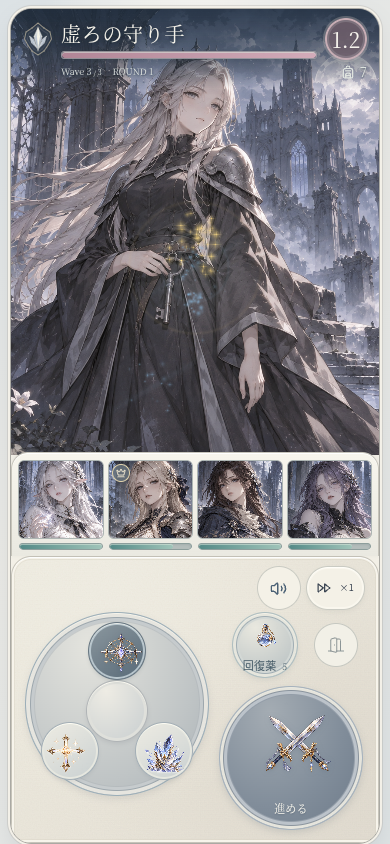
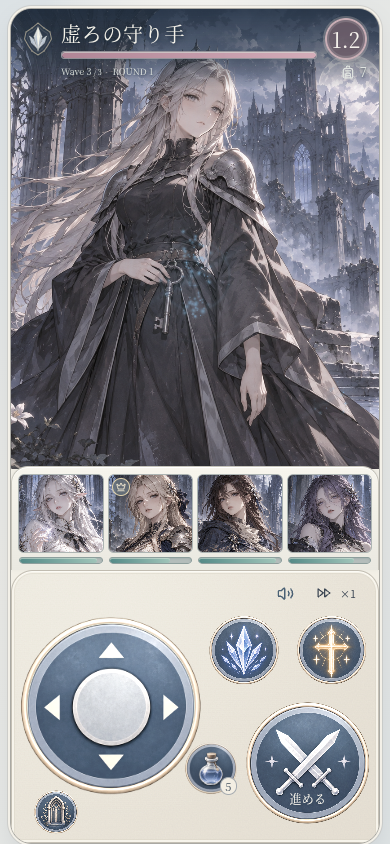
feat: match reference with generated framed controls and menu crests

diff --git a/src/ui/battle.css b/src/ui/battle.css
@@ -62,29 +62,6 @@
 .battle-layout .party-strip .hp-bar > span { background: linear-gradient(90deg,#548a87,#a0c4b9); }
 .battle-layout .party-hp { display: none; }
 .battle-layout .party-strip--selecting .character-portrait.button:not(:disabled) { box-shadow: 0 0 0 2px #9bbab2,0 0 15px #c1d9d3; }
-.battle-layout .command-pad { position: relative; display: grid; grid-template-columns: minmax(0,1fr) 196px; column-gap: 12px; row-gap: 3px; align-items: center; padding: 17px 19px 15px; margin: 0; border: 1px solid #c6c3b9; border-radius: 20px 20px 0 0; background: var(--paper-grain,none),radial-gradient(ellipse at 28% 8%,#faf7ee66,transparent 63%),radial-gradient(ellipse at 83% 72%,#bdb4a326,transparent 57%),linear-gradient(135deg,#f1eee3,#e7e2d7); box-shadow: inset 0 1px 0 #ffffff,inset 0 0 0 2px #f7f4eb,inset 0 0 0 3px #d7d1c466; }
-.battle-layout .command-heading { grid-column: 1 / -1; grid-row: 1; margin: 0; min-height: 44px; gap: 6px; justify-content: flex-end; }
-.battle-layout .command-heading > .eyebrow { min-width: 0; flex: 1; font-size: 9px; letter-spacing: .04em; color: #727d82; }
-.battle-layout .command-heading .toolbar { flex-shrink: 0; gap: 5px; }
-.battle-layout .command-heading .button { padding: 6px 10px; min-height: 44px; border-radius: 50px; background: #f4f1e7; font-size: 9px; border-color: #cacbc3; }
-/* A large tactile strategy selector replaces a decorative movement pad. */
-.battle-layout .strategy-options { grid-column: 1; grid-row: 2; width: min(100%,248px); aspect-ratio: 1; justify-self: center; align-self: start; display: flex; flex-direction: column; align-items: stretch; justify-content: center; gap: 6px; margin: 0; padding: 29px 25px; border: 1px solid #9caeb8; border-radius: 50%; background: radial-gradient(ellipse at 35% 18%,#e4e4de,#bfc4c5 65%,#a8b0b5); box-shadow: inset 0 1px 0 #f6f4eb,inset 0 0 0 4px #e6e5df,inset 0 0 0 5px #9da7ad,inset 0 0 0 8px #c6cbcd,inset 0 0 0 9px #adb3b780,0 3px 8px #414b5420; }
-.battle-layout .strategy-options .button { flex: 0 0 auto; min-height: 52px; padding: 7px 12px; display: flex; flex-direction: row; align-items: center; justify-content: flex-start; gap: 10px; border: 1px solid #b8c3ca78; border-radius: 28px; background: linear-gradient(135deg,#e8e8e3b8,#d1d5d44a); color: #465661; box-shadow: inset 0 1px 0 #f3f2e9b0,0 1px 2px #526a7b0d; }
-.battle-layout .strategy-options .button:not(.is-selected):hover:not(:disabled) { border-color: #8da5b6; background: #f1f6f3c9; box-shadow: inset 0 1px 0 #ffffff,0 1px 3px #526a7b1c; }
-.battle-layout .strategy-options .button.is-selected { background: linear-gradient(150deg,#89959c,#667580); color: #ffffff; border-color: #7b8a94; box-shadow: inset 0 1px 0 #dce0dd99,inset 0 0 0 1px #c1c9cd70,0 1px 3px #3a4d5c21; }
-.battle-layout .strategy-options .button > .command-emblem { box-sizing: border-box; width: 26px; height: 26px; padding: 0; stroke-width: 1.5; border: 0; background: transparent; box-shadow: none; filter: drop-shadow(0 1px 0 #ffffff60); }
-.battle-layout .strategy-options .button.is-selected > .command-emblem { filter: drop-shadow(0 1px 2px #3d526551); }
-.battle-layout .strategy-options .button > span:not(.command-emblem) { display: block; font-family: var(--font-display); font-size: 13px; line-height: 1.4; white-space: nowrap; }
-.battle-layout .strategy-options .button small { display: none; }
-.battle-layout .command-actions { grid-column: 2; grid-row: 2; display: grid; width: 100%; grid-template-columns: 1fr auto; align-items: center; justify-items: center; gap: 10px 8px; }
-.battle-layout .command-actions .battle-item-control { grid-column: 1; grid-row: 1; width: 86px; height: 86px; min-height: 86px; padding: 10px; border-radius: 50%; display: flex; flex-direction: column; gap: 4px; border: 1px solid #aebec0; background: radial-gradient(circle at 35% 23%,#e9e8df,#c5cbca 65%,#acb7bc); box-shadow: inset 0 1px 0 #f4f2e8,inset 0 0 0 3px #e6e6dd,inset 0 0 0 4px #a1aeb4,inset 0 0 0 6px #d3d8d5,0 3px 6px #41556218; color: #465b67; }
-.battle-layout .battle-item-control > .command-emblem { width: 48px; height: 48px; flex-shrink: 0; }
-.battle-layout .battle-item-control > span:not(.command-emblem) { font-size: 11px; line-height: 1.2; }
-.battle-layout .battle-item-control small { margin-left: 3px; font-family: var(--font-display); }
-.battle-layout .command-actions .battle-advance-control { grid-column: 1 / -1; grid-row: 2; width: 188px; height: 188px; min-height: 188px; padding: 23px 14px; border-radius: 50%; display: flex; flex-direction: column; gap: 10px; border: 1px solid #a6b2bd; background: radial-gradient(ellipse at 35% 18%,#a4acb3,#818d9a 57%,#6c7988); color: #f7f5ed; box-shadow: inset 0 1px 0 #e9e8df,inset 0 0 0 3px #e5e4dc,inset 0 0 0 4px #8a949e,inset 0 0 0 7px #bcc3ca,inset 0 0 0 8px #939da8,0 3px 8px #3a4e5f28; text-shadow: 0 1px 2px #3f4d5970; }
-.battle-layout .battle-advance-control > .command-emblem { width: 112px; height: 112px; filter: drop-shadow(0 1px 3px #31475e2b); }
-.battle-layout .battle-advance-control > span:not(.command-emblem) { max-width: 110px; font-family: var(--font-display); font-size: 13px; line-height: 1.4; text-align: center; }
-.battle-layout .command-actions .battle-retreat-control { grid-column: 2; grid-row: 1; width: 44px; height: 44px; min-height: 44px; padding: 9px; border-radius: 50%; border: 1px solid #c6c8c1; background: #f2f0e7; color: #8a9394; }
 @media (max-width: 760px) {
   .battle-layout .battle-toast { top: 96px; }
   .battle-layout { max-width: 500px; border-radius: 22px; }
@@ -99,33 +76,11 @@
   .battle-layout .enemy-line--1 .enemy-art { height: calc(100% + 65px); padding: 0; }
   .battle-layout .party-strip { padding: 7px 6px 6px; gap: 4px; }
   .battle-layout .party-strip .portrait-image { aspect-ratio: 1.08; }
-  .battle-layout .command-pad { grid-template-columns: minmax(0,1fr) 148px; column-gap: 8px; row-gap: 2px; padding: 9px 13px 12px; }
-  .battle-layout .command-heading { margin: 0; }
-  .battle-layout .command-heading > .eyebrow { font-size: 8px; }
-  .battle-layout .strategy-options { width: 100%; max-width: 204px; padding: 23px 17px; gap: 4px; }
-  .battle-layout .strategy-options .button { min-height: 44px; padding: 5px 8px; border-radius: 25px; gap: 6px; }
-  .battle-layout .strategy-options .button > .command-emblem { width: 22px; height: 22px; padding: 0; }
-  .battle-layout .strategy-options .button > span:not(.command-emblem) { font-size: 11px; }
-  .battle-layout .command-actions { grid-template-columns: 82px 44px; justify-content: center; gap: 8px; }
-  .battle-layout .command-actions .battle-item-control { width: 66px; height: 66px; min-height: 66px; padding: 4px; gap: 2px; }
-  .battle-layout .command-actions .battle-advance-control { width: 144px; height: 144px; min-height: 144px; padding: 12px 10px; gap: 6px; }
-  .battle-layout .battle-advance-control > .command-emblem { width: 96px; height: 96px; }
-  .battle-layout .battle-item-control > .command-emblem { width: 40px; height: 40px; }
-  .battle-layout .battle-advance-control > span:not(.command-emblem) { max-width: 92px; font-size: 11px; }
 
 }
 @media (max-width: 360px) {
   .battle-layout .battle-scene { height: 350px; }
-  .battle-layout .command-pad { grid-template-columns: minmax(0,1fr) 120px; column-gap: 6px; padding-inline: 12px; }
-  .battle-layout .strategy-options { padding: 10px 8px; gap: 2px; }
-  .battle-layout .strategy-options .button { min-height: 44px; padding-inline: 6px; gap: 4px; }
-  .battle-layout .strategy-options .button > .command-emblem { width: 19px; height: 19px; }
-  .battle-layout .strategy-options .button > span:not(.command-emblem) { font-size: 10px; }
-  .battle-layout .command-actions { grid-template-columns: 64px 44px; gap: 6px; }
-  .battle-layout .command-actions .battle-advance-control { width: 116px; height: 116px; min-height: 116px; }
-  .battle-layout .battle-advance-control > .command-emblem { width: 70px; height: 70px; }
-  .battle-layout .battle-item-control > .command-emblem { width: 32px; height: 32px; }
-  .battle-layout .command-actions .battle-item-control { width: 62px; height: 62px; min-height: 62px; }
+
 }
 
 @media (max-width: 760px) and (max-height: 740px) {

diff --git a/src/screens/GameViews.tsx b/src/screens/GameViews.tsx
@@ -1,6 +1,6 @@
 import { useState } from 'react';
-import { ArrowRight, Backpack, BookOpen, ChevronRight, CircleHelp, Compass, Crown, Heart, Hexagon, Moon, Plus, Shield, Sparkles, Swords, Users, Volume2, VolumeX, WandSparkles, FlaskConical, Check, DoorOpen, FastForward, Play, Package, Settings, Feather } from 'lucide-react';
-import { Button, Panel, CharacterPortrait, MaterialIcon, HPBar, Modal, MenuEmblem, EnemyCarousel, SceneEffects, TownNavigation, CommandEmblem, StrategyDial, PortraitArt, CurrencyEmblem } from '../ui';
+import { ArrowRight, Backpack, BookOpen, ChevronRight, CircleHelp, Compass, Crown, Heart, Hexagon, Moon, Plus, Shield, Sparkles, Swords, Users, Volume2, VolumeX, WandSparkles, FlaskConical, Check, FastForward, Play, Package, Settings, Feather } from 'lucide-react';
+import { Button, Panel, CharacterPortrait, MaterialIcon, HPBar, Modal, MenuEmblem, EnemyCarousel, SceneEffects, TownNavigation, BattleControlPad, PortraitArt, CurrencyEmblem } from '../ui';
 import { content, assetPath, characterById, materialName, roleName } from '../content';
 import { characterStats, dungeonDifficulty, leaderBonus, recruitCost } from '../domain/engine';
 import type { Battle, CharacterDef, GameCommand, GameSave, Rarity, Unit } from '../domain/types';
@@ -120,15 +120,11 @@ export function BattleView(p: ViewProps) {
         <span className="party-hp">{unit.hp} / {unit.maxHp}</span>
       </div>)}
     </div>
-    <Panel className="command-pad">
-      <div className="command-heading">{usingPotion && <span className="sr-only">回復する仲間を選択</span>}<div className="toolbar">{usingPotion && <Button size="sm" variant="secondary" onClick={() => setUsingPotion(false)}>取消</Button>}<Button variant="icon" title={p.save.settings.seVolume === 0 ? '効果音を有効にする' : '効果音をミュート'} disabled={p.busy} onClick={() => p.command({ type: 'settings', settings: { seVolume: p.save.settings.seVolume === 0 ? 0.5 : 0 } })}>{p.save.settings.seVolume === 0 ? <VolumeX size={17} /> : <Volume2 size={17} />}</Button><Button size="sm" variant="secondary" disabled={p.busy} title="演出速度" onClick={() => p.command({ type: 'settings', settings: { speed: p.save.settings.speed === 1 ? 2 : 1 } })}><FastForward size={14} /> ×{p.save.settings.speed}</Button></div></div>
-      <StrategyDial value={battle.strategy} disabled={p.busy || battle.phase !== 'ready'} onChange={strategy => { void p.command({ type: 'strategy', strategy }); }} />
-      <div className="command-actions">
-        <Button variant="secondary" className="battle-item-control" disabled={p.busy || battle.phase !== 'ready' || battle.potionUsed || !battle.potionsRemaining} onClick={() => setUsingPotion(!usingPotion)}><CommandEmblem kind="potion" /><span>回復薬 <small>{battle.potionsRemaining}</small></span></Button>
-        {battle.phase === 'playing' ? <Button size="lg" className="battle-advance-control" disabled={p.busy} onClick={() => p.command({ type: 'replay' })} aria-label="次の演出へ"><CommandEmblem kind="replay" /><span>次へ</span></Button> : <Button size="lg" className="battle-advance-control" disabled={p.busy || usingPotion} onClick={() => p.command({ type: 'round' })} aria-label="ラウンドを進める"><CommandEmblem kind="advance" /><span>進める</span></Button>}
-        <Button variant="icon" className="battle-retreat-control" title="撤退" disabled={p.busy || battle.phase !== 'ready'} onClick={() => setRetreat(true)}><DoorOpen size={20} strokeWidth={1.3} /></Button>
-      </div>
-    </Panel>
+    <BattleControlPad strategy={battle.strategy} strategyDisabled={p.busy || battle.phase !== 'ready'} onStrategy={strategy => { void p.command({ type: 'strategy', strategy }); }}
+      advancing={battle.phase === 'playing'} advanceDisabled={p.busy || (battle.phase !== 'playing' && usingPotion)} onAdvance={() => { void p.command({ type: battle.phase === 'playing' ? 'replay' : 'round' }); }}
+      potionCount={battle.potionsRemaining} potionDisabled={p.busy || battle.phase !== 'ready' || battle.potionUsed || !battle.potionsRemaining} potionSelected={usingPotion} onPotion={() => setUsingPotion(!usingPotion)}
+      retreatDisabled={p.busy || battle.phase !== 'ready'} onRetreat={() => setRetreat(true)}
+      toolbar={<>{usingPotion && <><span className="sr-only">回復する仲間を選択</span><Button size="sm" variant="secondary" onClick={() => setUsingPotion(false)}>取消</Button></>}<Button variant="icon" title={p.save.settings.seVolume === 0 ? '効果音を有効にする' : '効果音をミュート'} disabled={p.busy} onClick={() => p.command({ type: 'settings', settings: { seVolume: p.save.settings.seVolume === 0 ? 0.5 : 0 } })}>{p.save.settings.seVolume === 0 ? <VolumeX size={17} /> : <Volume2 size={17} />}</Button><Button size="sm" variant="secondary" disabled={p.busy} title="演出速度" onClick={() => p.command({ type: 'settings', settings: { speed: p.save.settings.speed === 1 ? 2 : 1 } })}><FastForward size={14} /> ×{p.save.settings.speed}</Button></>} />
     <Modal open={retreat} onClose={() => setRetreat(false)} title="探索から撤退しますか？"><p>今回の素材をすべて失います。ゴールド・敵の記録は残ります。</p><Button variant="danger" disabled={p.busy} onClick={async () => { if (await p.command({ type: 'retreat' })) setRetreat(false); }}>撤退する</Button></Modal>
   </div>;
 }

diff --git a/src/ui/battle-control-pad.css b/src/ui/battle-control-pad.css
@@ -1,0 +1,52 @@
+.battle-layout .battle-control-pad {
+  position: relative;
+  margin: 0;
+  padding: 0 8px 8px;
+  border: 1px solid #c4bfb4;
+  border-radius: 22px 22px 0 0;
+  background: var(--paper-grain,none),radial-gradient(ellipse at 30% 10%,#faf7ee77,transparent 65%),linear-gradient(135deg,#f2eee4,#e8e2d6);
+  box-shadow: inset 0 1px 0 #fffdf7,inset 0 0 0 2px #f7f4eb,inset 0 0 0 3px #d7d1c466;
+}
+.battle-control-pad__toolbar { display: flex; justify-content: flex-end; align-items: center; min-height: 44px; padding: 0 5px; }
+.battle-control-pad__toolbar .toolbar { gap: 2px; }
+.battle-control-pad__toolbar .button { min-height: 44px; min-width: 44px; padding: 5px 8px; border-color: transparent; background: transparent; box-shadow: none; font-size: 10px; }
+.battle-control-pad__board { position: relative; width: 100%; aspect-ratio: 1.6; }
+.battle-control-pad__strategies { display: contents; }
+.battle-layout .battle-control-pad .framed-control {
+  position: absolute;
+  display: block;
+  height: auto;
+  aspect-ratio: 1;
+  min-width: 44px;
+  min-height: 44px;
+  padding: 0;
+  border: 0;
+  border-radius: 50%;
+  background: transparent;
+  box-shadow: none;
+  color: #f6f2e9;
+  overflow: visible;
+  isolation: isolate;
+  transition: filter .16s,transform .16s;
+}
+.battle-layout .battle-control-pad .framed-control:hover:not(:disabled) { background: transparent; border: 0; box-shadow: none; filter: brightness(1.07); }
+.battle-layout .battle-control-pad .framed-control:active:not(:disabled) { transform: scale(.97); }
+.battle-layout .battle-control-pad .framed-control:disabled { opacity: .52; }
+.battle-layout .battle-control-pad .framed-control.is-selected { background: transparent; box-shadow: none; filter: brightness(1.08); }
+.battle-layout .battle-control-pad .framed-control.is-selected::after { content: ''; position: absolute; inset: 4%; border: 1px solid #f4f8e9bb; border-radius: 50%; pointer-events: none; }
+.battle-layout .battle-control-pad .framed-control > .atlas-icon { position: absolute; inset: 0; width: 100%; height: 100%; border-radius: 50%; pointer-events: none; z-index: -1; }
+.battle-control-pad .framed-control--balanced { width: 52%; left: 0; top: 0; }
+.battle-control-pad .framed-control--aggressive { width: 20%; left: 54%; top: 0; }
+.battle-control-pad .framed-control--survival { width: 20%; right: 1%; top: 0; }
+.battle-control-pad .framed-control--advance { width: 35.5%; right: 0; top: 39%; }
+.battle-control-pad .framed-control--potion { width: 15%; left: 47%; top: 58%; }
+.battle-control-pad .framed-control--retreat { width: 9%; left: 4%; bottom: 0; }
+.framed-control__label { position: absolute; left: 15%; right: 15%; bottom: 15%; font-family: var(--font-display); font-size: clamp(12px,2.8vw,20px); font-weight: 400; line-height: 1.3; text-align: center; text-shadow: 0 1px 3px #263648; }
+.framed-control__count { position: absolute; right: 0; bottom: 0; min-width: 1.55em; padding: 2px 4px; border-radius: 12px; background: #f3eee3; color: #435160; border: 1px solid #a6abb0; font-size: 11px; line-height: 1.1; font-family: var(--font-display); text-shadow: none; }
+@media (max-width: 360px) {
+  .battle-layout .battle-control-pad { padding-inline: 5px; padding-bottom: 6px; }
+  .battle-control-pad .framed-control--retreat { left: 2%; }
+}
+@media (prefers-reduced-motion: reduce) {
+  .battle-layout .battle-control-pad .framed-control { transition: none; }
+}

diff --git a/src/ui/BattleControlPad.tsx b/src/ui/BattleControlPad.tsx
@@ -1,0 +1,38 @@
+import type { ReactNode } from 'react';
+import type { Strategy } from '../domain/types';
+import { Button } from './index';
+import { AtlasIcon } from './AtlasIcon';
+import './battle-control-pad.css';
+
+export interface BattleControlPadProps {
+  strategy: Strategy;
+  onStrategy: (strategy: Strategy) => void;
+  strategyDisabled: boolean;
+  advancing: boolean;
+  advanceDisabled: boolean;
+  onAdvance: () => void;
+  potionCount: number;
+  potionDisabled: boolean;
+  potionSelected: boolean;
+  onPotion: () => void;
+  onRetreat: () => void;
+  retreatDisabled: boolean;
+  toolbar: ReactNode;
+}
+
+/** Complete illustrated controls share one proportional, reference-based board. */
+export function BattleControlPad(p: BattleControlPadProps) {
+  return <section className="battle-control-pad" aria-label="戦闘操作">
+    <div className="battle-control-pad__toolbar">{p.toolbar}</div>
+    <div className="battle-control-pad__board">
+      <div className="battle-control-pad__strategies" role="group" aria-label="作戦を選ぶ">
+        <Button variant="secondary" className="framed-control framed-control--balanced" aria-label="均衡" title="均衡" selected={p.strategy === 'balanced'} disabled={p.strategyDisabled} onClick={() => p.onStrategy('balanced')}><AtlasIcon asset="control-frames" frame={0} /></Button>
+        <Button variant="secondary" className="framed-control framed-control--aggressive" aria-label="攻撃重視" title="攻撃重視" selected={p.strategy === 'aggressive'} disabled={p.strategyDisabled} onClick={() => p.onStrategy('aggressive')}><AtlasIcon asset="control-frames" frame={1} /></Button>
+        <Button variant="secondary" className="framed-control framed-control--survival" aria-label="生存重視" title="生存重視" selected={p.strategy === 'survival'} disabled={p.strategyDisabled} onClick={() => p.onStrategy('survival')}><AtlasIcon asset="control-frames" frame={2} /></Button>
+      </div>
+      <Button variant="secondary" className="framed-control framed-control--potion" aria-label={`回復薬 ${p.potionCount}`} title="回復薬" disabled={p.potionDisabled} selected={p.potionSelected} onClick={p.onPotion}><AtlasIcon asset="control-frames" frame={4} /><span className="framed-control__count">{p.potionCount}</span></Button>
+      <Button className="framed-control framed-control--advance" aria-label={p.advancing ? '次の演出へ' : 'ラウンドを進める'} disabled={p.advanceDisabled} onClick={p.onAdvance}><AtlasIcon asset="control-frames" frame={3} /><span className="framed-control__label">{p.advancing ? '次へ' : '進める'}</span></Button>
+      <Button variant="icon" className="framed-control framed-control--retreat" aria-label="撤退" title="撤退" disabled={p.retreatDisabled} onClick={p.onRetreat}><AtlasIcon asset="control-frames" frame={5} /></Button>
+    </div>
+  </section>;
+}

diff --git a/src/content/index.ts b/src/content/index.ts
@@ -70,6 +70,8 @@ const encounterAssets: AssetDef[] = characters.flatMap(char => char.encounterArt
   width: 1536, height: 1024, anchor: '50% 50%', rights: 'Original AI-generated complete encounter painting for this project.',
 }] : []);
 const menuAssets: AssetDef[] = [
+  { id: 'menu-logos', path: 'art/menu-logos.png', kind: 'icon', width: 1536, height: 1024, anchor: '50% 50%', rights: 'Original AI-generated monochrome menu crest atlas for this project.' },
+  { id: 'control-frames', path: 'art/control-frames.png', kind: 'icon', width: 1536, height: 1024, anchor: '50% 50%', rights: 'Original AI-generated complete framed control atlas for this project.' },
   { id: 'menu-atlas', path: 'art/menu-atlas.png', kind: 'icon', width: 1536, height: 1024, anchor: '50% 50%', rights: 'Original AI-generated painted UI icon atlas for this project.' },
   { id: 'command-atlas', path: 'art/command-atlas.png', kind: 'icon', width: 1536, height: 1024, anchor: '50% 50%', rights: 'Original AI-generated painted UI icon atlas for this project.' },
 { id: 'menu-bag', path: 'art/menu-bag.png', kind: 'icon', width: 1254, height: 1254, anchor: '50% 50%', rights: 'Original AI-generated artwork for this project.' }, { id: 'menu-codex', path: 'art/menu-codex.png', kind: 'icon', width: 1254, height: 1254, anchor: '50% 50%', rights: 'Original AI-generated artwork for this project.' }, { id: 'menu-hero', path: 'art/menu-hero.png', kind: 'background', width: 1254, height: 1254, anchor: '50% 50%', rights: 'Original AI-generated artwork for this project.' }];

diff --git a/src/ui/AtlasIcon.tsx b/src/ui/AtlasIcon.tsx
@@ -3,7 +3,13 @@ import { assetPath } from '../content';
 import './atlas-icon.css';
 
 /** Render one cell from a generated 3×2 atlas without modifying the source artwork. */
-export function AtlasIcon({ asset, frame, className = '' }: { asset: 'menu-atlas' | 'command-atlas'; frame: 0 | 1 | 2 | 3 | 4 | 5; className?: string }) {
-  const style = { backgroundImage: `url("${assetPath(asset)}")`, backgroundPosition: `${frame % 3 * 50}% ${frame < 3 ? 0 : 100}%`, backgroundSize: '300% 200%', backgroundRepeat: 'no-repeat' } as CSSProperties;
+export function AtlasIcon({ asset, frame, className = '' }: { asset: 'menu-atlas' | 'command-atlas' | 'menu-logos' | 'control-frames'; frame: 0 | 1 | 2 | 3 | 4 | 5; className?: string }) {
+  // The generated controls are hand placed: sample their actual bounds, keeping every rim intact.
+  const controlStyle = asset === 'control-frames' ? {
+    backgroundSize: `${1536 / 464 * 100}% ${1024 / 464 * 100}%`,
+    backgroundPosition: `${[45, 535, 1027][frame % 3] / (1536 - 464) * 100}% ${(frame < 3 ? 27 : 499) / (1024 - 464) * 100}%`,
+    clipPath: 'circle(49.5% at 50% 50%)',
+  } : {};
+  const style = { backgroundImage: `url("${assetPath(asset)}")`, backgroundPosition: `${frame % 3 * 50}% ${frame < 3 ? 0 : 100}%`, backgroundSize: '300% 200%', backgroundRepeat: 'no-repeat', ...controlStyle } as CSSProperties;
   return <span className={`atlas-icon ${className}`} style={style} aria-hidden="true" />;
 }

diff --git a/src/ui/MenuEmblem.tsx b/src/ui/MenuEmblem.tsx
@@ -3,7 +3,7 @@ import { AtlasIcon } from './AtlasIcon';
 export type MenuEmblemKind = 'party' | 'monster' | 'bag' | 'wish' | 'codex' | 'settings';
 const frames: Record<MenuEmblemKind, 0 | 1 | 2 | 3 | 4 | 5> = { party: 0, monster: 1, bag: 2, wish: 3, codex: 4, settings: 5 };
 
-/** Every menu uses the same generated, painted icon set. */
+/** Every menu shares the same generated, flat monochrome logo set. */
 export function MenuEmblem({ kind }: { kind: MenuEmblemKind }) {
-  return <AtlasIcon asset="menu-atlas" frame={frames[kind]} className={`menu-emblem menu-emblem--${kind}`} />;
+  return <AtlasIcon asset="menu-logos" frame={frames[kind]} className={`menu-emblem menu-emblem--${kind}`} />;
 }

diff --git a/src/ui/index.tsx b/src/ui/index.tsx
@@ -17,7 +17,7 @@ export { MenuEmblem } from './MenuEmblem';
 export { SceneEffects } from './SceneEffects';
 export { TownNavigation } from './TownNavigation';
 export { CommandEmblem } from './CommandEmblem';
-export { StrategyDial } from './StrategyDial';
+export { BattleControlPad } from './BattleControlPad';
 export { PortraitArt } from './PortraitArt';
 export { CurrencyEmblem, EncounterCrest } from './Sigils';
 

diff --git a/src/ui/town-navigation.css b/src/ui/town-navigation.css
@@ -4,6 +4,7 @@
 .town-navigation > .button > .command-emblem { width: 29px; height: 29px; padding: 0; transform: none; }
 .town-navigation > .button > .menu-emblem { filter: grayscale(1); }
 .town-navigation > .button > .command-emblem { filter: none; }
+.hub-navigation > .button > .command-emblem { filter: grayscale(1); }
 .hub-navigation {
   position: relative;
   z-index: 6;

diff --git a/docs/implementation.md b/docs/implementation.md
@@ -85,9 +85,9 @@ npm run release
 
 ## 現在の画面とアセット
 
-ホームは少女と狼の原画、生成した3列×2段のメニュー、探索入口、下端ナビを同じ額縁に収めます。メニュー画像とホーム内ナビの画像はCSSでモノクロ化します。元のカラー画像は維持し、戦闘用の図案は色を保ちます。モバイルの残る画面高は原画・敵ステージへ配分し、枠外のpaddingや不要なスクロールを作りません。
+ホームは少女と狼の原画、生成した3列×2段のメニュー、探索入口、下端ナビを同じ額縁に収めます。メニューは単色のロゴ原画を使い、ホーム内ナビも単色へ揃えます。戦闘用の生成ボタンは結晶や聖光の色を保ちます。モバイルの残る画面高は原画・敵ステージへ配分し、枠外のpaddingや不要なスクロールを作りません。
 
-menu-atlas.pngとcommand-atlas.pngは見本を参照して画像生成した透過3列×2段の原画です。共通AtlasIconが台帳参照とセル表示を担い、各用途の図案対応を型付きRecordで保証します。元画像の加工切り抜きはせずCSSでセルを表示します。パーティ帯は顔とHPだけにし、作戦の見出し・選択の文字、入口下の文言を表示しません。操作名はアクセシブル名・ツールチップで維持します。
+menu-logos.pngは人物画ではなく、少女の横顔・狼・カバン・結晶・開いた本・羅針盤を単色の紋章として生成した透過原画です。control-frames.pngは銀縁・青灰色の円盤・中央の絵を一体生成したボタン6種です。共通AtlasIconが台帳参照と表示範囲を管理し、生成時の配置差は元画像を加工せずCSSの参照座標で補正します。BattleControlPadが左の大型パッド、右上の結晶と十字、右下の剣、間の薬瓶を一括配置します。大型パッドは均衡、結晶は攻撃重視、十字は生存重視の作戦選択です。移動や直接攻撃の機能は追加しません。パーティ帯は顔とHPのみ、操作名はアクセシブル名・ツールチップで維持します。旧command-atlas.pngは町のナビの小さな図案にのみ使用します。
 
 敵6種は、切り抜きの立ち絵と別背景を合成する方式を廃止し、1536×1024の背景込みの一枚絵を使います。人物は女性のみで、自然な顔・手と読みやすい衣装の面を優先します。CharacterDef.encounterArtIdで戦闘用の絵を指定し、公開ダンジョンの敵に未登録・不正なシーンがある場合はコンテンツ検査で拒否します。敵の図鑑・仲間カードも同じ新原画を参照し、旧透過素材を再表示しません。
 
